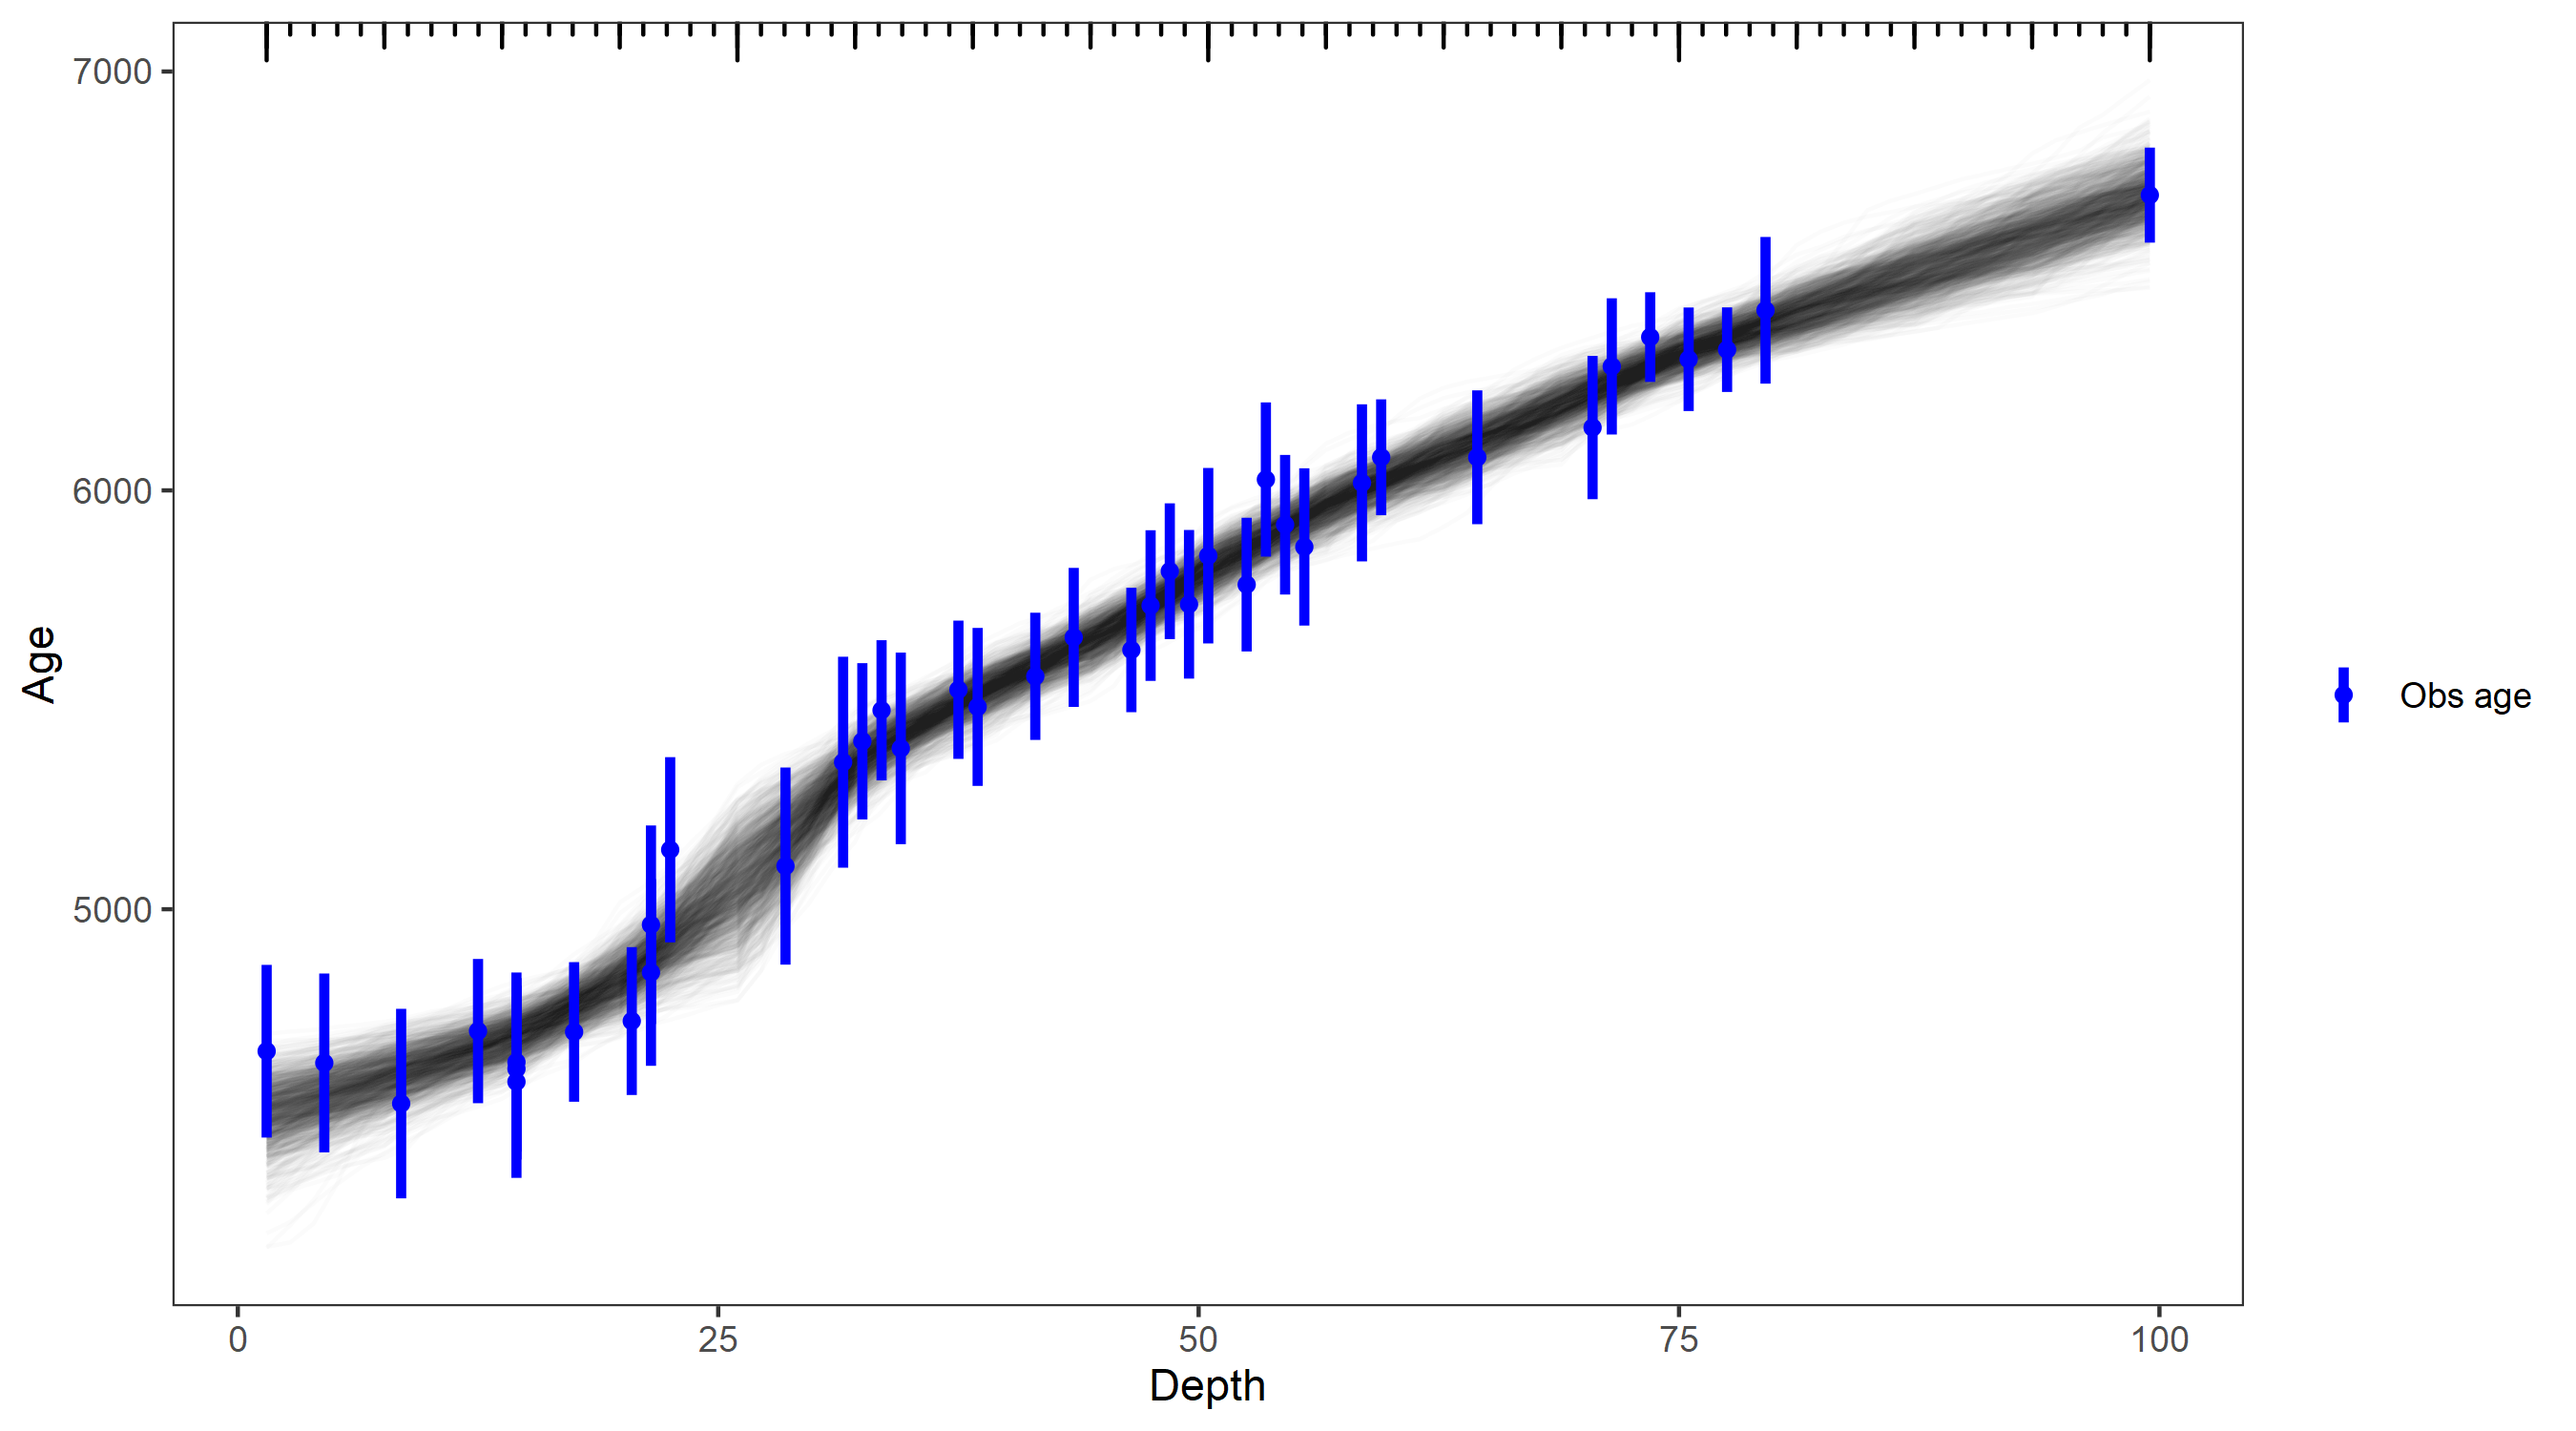
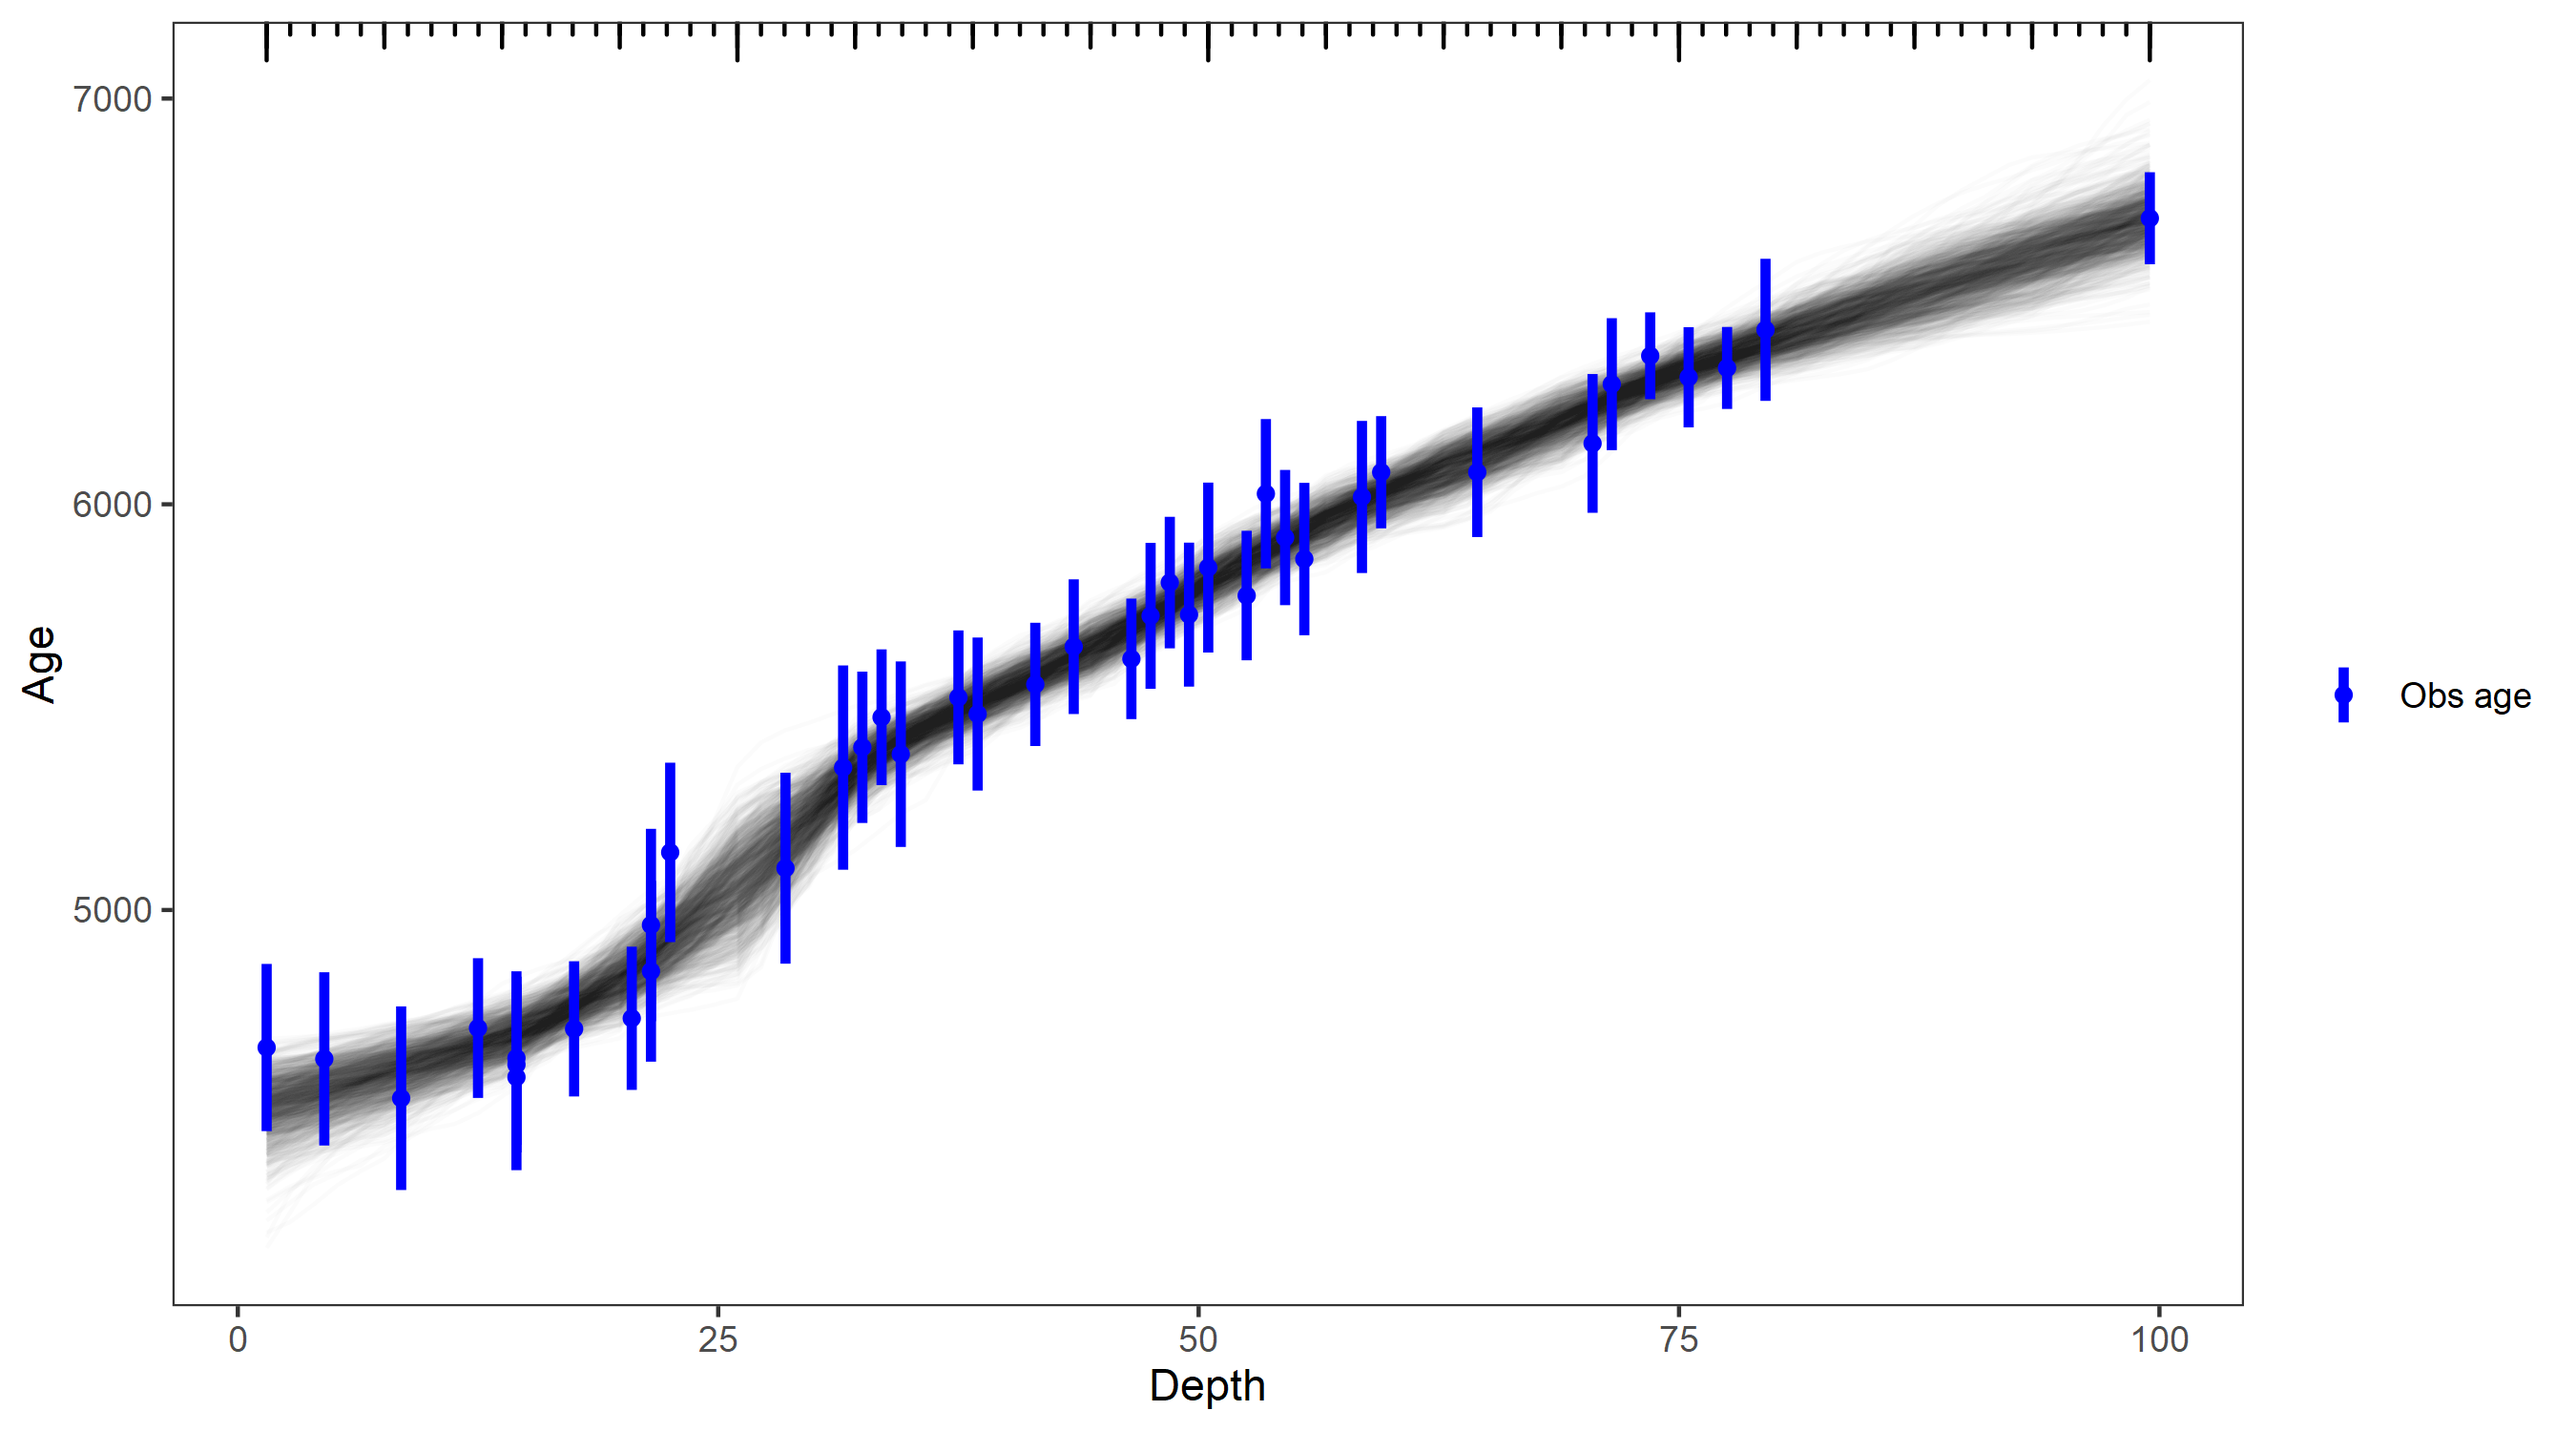
use rlm + rnorm to set init for age0 and ensure age0 > min_age

diff --git a/README.md b/README.md
@@ -1,7 +1,7 @@
 hamstr: Hierarchical Accumulation Modelling with Stan and R.
 ================
 Andrew M. Dolman
-2021-12-19
+2022-02-28
 
 ------------------------------------------------------------------------
 
@@ -161,7 +161,7 @@ plot(hamstr_fit_1, type = "acc_mean_prior_post")
 
 Default parameter values for the shape of the gamma distributed
 accumulation rates `acc_shape = 1.5`, the memory mean `mem_mean = 0.5`
-and memory strength `mem_strength = 10`, are the same as for Bacon &gt;=
+and memory strength `mem_strength = 10`, are the same as for Bacon \>=
 2.5.1.
 
 ### Setting the thickness, number, and hierarchical structure of the discrete sections
@@ -226,16 +226,16 @@ predict(hamstr_fit_1)
 #> # A tibble: 243,000 x 3
 #>     iter depth   age
 #>    <int> <dbl> <dbl>
-#>  1     1  1.5  4572.
-#>  2     1  2.72 4576.
-#>  3     1  3.95 4584.
-#>  4     1  5.18 4591.
-#>  5     1  6.4  4597.
-#>  6     1  7.62 4603.
-#>  7     1  8.85 4615.
-#>  8     1 10.1  4633.
-#>  9     1 11.3  4652.
-#> 10     1 12.5  4671.
+#>  1     1  1.5  4491.
+#>  2     1  2.72 4509.
+#>  3     1  3.95 4526.
+#>  4     1  5.18 4539.
+#>  5     1  6.4  4546.
+#>  6     1  7.62 4554.
+#>  7     1  8.85 4566.
+#>  8     1 10.1  4582.
+#>  9     1 11.3  4597.
+#> 10     1 12.5  4624.
 #> # ... with 242,990 more rows
 ```
 
@@ -246,16 +246,16 @@ summary(hamstr_fit_1)
 #> # A tibble: 81 x 13
 #>    depth   idx par     mean se_mean    sd `2.5%` `25%` `50%` `75%` `97.5%` n_eff
 #>    <dbl> <dbl> <chr>  <dbl>   <dbl> <dbl>  <dbl> <dbl> <dbl> <dbl>   <dbl> <dbl>
-#>  1  1.5      1 c_age~ 4511.   2.38   67.6  4362. 4468. 4516. 4558.   4631.  805.
-#>  2  2.72     2 c_age~ 4527.   2.21   62.3  4395. 4488. 4531. 4571.   4641.  793.
-#>  3  3.95     3 c_age~ 4544.   2.03   57.6  4424. 4508. 4547. 4583.   4649.  800.
-#>  4  5.18     4 c_age~ 4561.   1.87   53.7  4452. 4527. 4564. 4597.   4661.  824.
-#>  5  6.4      5 c_age~ 4578.   1.76   51.0  4473. 4544. 4580. 4611.   4675.  842.
-#>  6  7.62     6 c_age~ 4595.   1.70   49.5  4491. 4563. 4597. 4628.   4689.  845.
-#>  7  8.85     7 c_age~ 4612.   1.51   46.4  4517. 4582. 4614. 4643.   4702.  950.
-#>  8 10.1      8 c_age~ 4630.   1.28   43.5  4544. 4602. 4631. 4658.   4716. 1161.
-#>  9 11.3      9 c_age~ 4647.   1.05   40.9  4565. 4620. 4649. 4674.   4729. 1507.
-#> 10 12.5     10 c_age~ 4665.   0.917  39.4  4587. 4639. 4666. 4692.   4743. 1848.
+#>  1  1.5      1 c_age~ 4512.   1.75   68.4  4365. 4472. 4518. 4559.   4627. 1524.
+#>  2  2.72     2 c_age~ 4528.   1.59   62.8  4392. 4491. 4534. 4572.   4636. 1567.
+#>  3  3.95     3 c_age~ 4545.   1.44   58.5  4419. 4508. 4550. 4586.   4646. 1647.
+#>  4  5.18     4 c_age~ 4561.   1.32   54.9  4443. 4528. 4564. 4599.   4658. 1730.
+#>  5  6.4      5 c_age~ 4578.   1.22   52.3  4465. 4546. 4580. 4613.   4672. 1829.
+#>  6  7.62     6 c_age~ 4594.   1.16   50.5  4487. 4563. 4597. 4628.   4686. 1910.
+#>  7  8.85     7 c_age~ 4611.   1.04   47.7  4516. 4580. 4614. 4644.   4700. 2107.
+#>  8 10.1      8 c_age~ 4629.   0.921  44.9  4539. 4600. 4630. 4660.   4715. 2376.
+#>  9 11.3      9 c_age~ 4647.   0.817  42.6  4563. 4619. 4647. 4676.   4729. 2725.
+#> 10 12.5     10 c_age~ 4665.   0.760  41.2  4585. 4637. 4665. 4694.   4744. 2935.
 #> # ... with 71 more rows, and 1 more variable: Rhat <dbl>
 ```
 
@@ -270,8 +270,7 @@ age.mods.interp <- predict(hamstr_fit_1, depth = seq(0, 100, by = 1))
 ```
 
 These interpolated age models can summarised with the same function as
-the original fitted objects, but the n\_eff and Rhat information is
-lost.
+the original fitted objects, but the n_eff and Rhat information is lost.
 
 ``` r
 summary(age.mods.interp)
@@ -280,14 +279,14 @@ summary(age.mods.interp)
 #>    <dbl> <dbl> <dbl>  <dbl> <dbl> <dbl> <dbl>   <dbl>
 #>  1     0   NA   NA      NA    NA    NA    NA      NA 
 #>  2     1   NA   NA      NA    NA    NA    NA      NA 
-#>  3     2 4517.  65.3  4375. 4476. 4523. 4562.   4635.
-#>  4     3 4531.  61.1  4401. 4493. 4535. 4573.   4642.
-#>  5     4 4544.  57.4  4425. 4509. 4547. 4584.   4650.
-#>  6     5 4558.  54.1  4448. 4524. 4561. 4595.   4659.
-#>  7     6 4572.  51.7  4464. 4538. 4574. 4607.   4669.
-#>  8     7 4586.  50.0  4483. 4554. 4589. 4619.   4681.
-#>  9     8 4600.  48.4  4498. 4569. 4603. 4632.   4693.
-#> 10     9 4614.  46.0  4522. 4585. 4616. 4645.   4704.
+#>  3     2 4519.  65.9  4378. 4479. 4524. 4564.   4630.
+#>  4     3 4532.  61.8  4399. 4495. 4537. 4575.   4638.
+#>  5     4 4545.  58.3  4420. 4509. 4550. 4586.   4646.
+#>  6     5 4559.  55.3  4439. 4525. 4562. 4597.   4656.
+#>  7     6 4572.  53.0  4460. 4540. 4574. 4609.   4667.
+#>  8     7 4586.  51.2  4477. 4554. 4588. 4621.   4678.
+#>  9     8 4599.  49.6  4495. 4568. 4602. 4633.   4691.
+#> 10     9 4614.  47.3  4519. 4583. 4616. 4646.   4702.
 #> # ... with 91 more rows
 ```
 
@@ -296,7 +295,7 @@ summary(age.mods.interp)
 The down-core accumulation rates are returned and plotted in both
 depth-per-time, and time-per-depth units. If the input data are in years
 and cm then the units will be cm/kyr and yrs/cm respectively. Note that
-the acc\_mean parameter in both **hamstr** and Bacon is parametrised in
+the acc_mean parameter in both **hamstr** and Bacon is parametrised in
 terms of time per depth.
 
 ``` r
@@ -312,23 +311,23 @@ summary(hamstr_fit_1, type = "acc_rates")
 #> # A tibble: 160 x 13
 #>    depth c_depth_top c_depth_bottom acc_rate_unit   idx   tau  mean    sd `2.5%`
 #>    <dbl>       <dbl>          <dbl> <chr>         <dbl> <dbl> <dbl> <dbl>  <dbl>
-#>  1  1.5         1.5            2.72 depth_per_ti~     1     0 124.  129.    27.5
-#>  2  2.72        2.72           3.95 depth_per_ti~     2     0 106.   80.8   29.6
-#>  3  3.95        3.95           5.18 depth_per_ti~     3     0 102.   73.4   29.6
-#>  4  5.18        5.18           6.4  depth_per_ti~     4     0 101.   72.8   29.7
-#>  5  6.4         6.4            7.62 depth_per_ti~     5     0 101.   74.9   31.2
-#>  6  7.62        7.62           8.85 depth_per_ti~     6     0  87.5  46.4   33.1
-#>  7  8.85        8.85          10.1  depth_per_ti~     7     0  89.0  51.3   32.3
-#>  8 10.1        10.1           11.3  depth_per_ti~     8     0  91.1  61.9   30.4
-#>  9 11.3        11.3           12.5  depth_per_ti~     9     0  91.6  62.4   31.4
-#> 10 12.5        12.5           13.8  depth_per_ti~    10     0  91.9  62.9   30.8
+#>  1  1.5         1.5            2.72 depth_per_ti~     1     0 127.  153.    27.5
+#>  2  2.72        2.72           3.95 depth_per_ti~     2     0 108.   81.5   30.1
+#>  3  3.95        3.95           5.18 depth_per_ti~     3     0 104.   78.0   30.4
+#>  4  5.18        5.18           6.4  depth_per_ti~     4     0 103.   75.9   31.5
+#>  5  6.4         6.4            7.62 depth_per_ti~     5     0 102.   72.8   31.6
+#>  6  7.62        7.62           8.85 depth_per_ti~     6     0  87.6  46.0   33.8
+#>  7  8.85        8.85          10.1  depth_per_ti~     7     0  87.6  49.9   31.7
+#>  8 10.1        10.1           11.3  depth_per_ti~     8     0  88.8  55.6   31.5
+#>  9 11.3        11.3           12.5  depth_per_ti~     9     0  90.3  59.4   31.1
+#> 10 12.5        12.5           13.8  depth_per_ti~    10     0  90.4  61.5   29.9
 #> # ... with 150 more rows, and 4 more variables: 25% <dbl>, 50% <dbl>,
 #> #   75% <dbl>, 97.5% <dbl>
 ```
 
 ### Diagnostic plots
 
-Additional diagnostic plots are available. See ?plot.hamstr\_fit for
+Additional diagnostic plots are available. See ?plot.hamstr_fit for
 options.
 
 #### Plot modelled accumulation rates at each hierarchical level
@@ -352,7 +351,7 @@ plot(hamstr_fit_1, type = "mem")
 
 ### Other `rstan` functions
 
-Within the hamstr\_fit object is an *rstan* object on which all the
+Within the hamstr_fit object is an *rstan* object on which all the
 standard rstan functions should operate correctly.
 
 For example:
